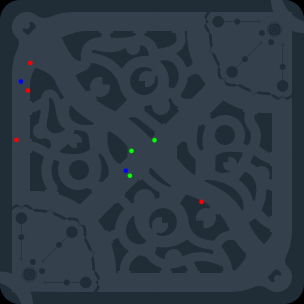
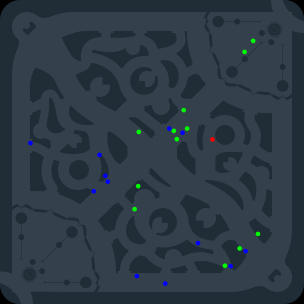
atualiza namespaces

diff --git a/testeClass.php b/testeClass.php
@@ -3,17 +3,17 @@
 declare(strict_types = 1);
 ini_set("memory_limit", "-1");
 
-use Riot\Api\api\RiotApiClient;
-use Riot\Api\map\Analyzers\SlaughterParticipation;
-use Riot\Api\map\MapsType\ClassicMap;
-use Riot\Api\map\PlotsType\PlotKillAssistDeath;
+use Riot\Api\RiotApiClient;
+use Riot\Map\Analyzers\SlaughterParticipation;
+use Riot\Map\MapsType\ClassicMap;
+use Riot\Map\PlotsType\PlotKillAssistDeath;
 use Symfony\Component\Dotenv\Dotenv;
 
 require_once __DIR__ . "/vendor/autoload.php";
 
 (new Dotenv())->loadEnv(__DIR__ . "/.env");
 
-$match = 8;
+$match = 11;
 
 $maps = [
     "ONEFORALL" => "Classic",
@@ -35,7 +35,7 @@ foreach($matchInfo->metadata->participants as $key => $participant) {
 $participant = $matchInfo->info->participants[$participantKey];
 
 $mapType = $maps[$matchInfo->info->gameMode];
-$mapClass = new ReflectionClass("Riot\Api\map\MapsType\\{$mapType}Map");
+$mapClass = new ReflectionClass("Riot\Map\MapsType\\{$mapType}Map");
 
 $matchInfoTimeline = $riotApiClient->getMatchInfoTimeline($matchesId[$match]);
 

diff --git a/src/Image.php b/src/Image.php
@@ -1,8 +1,8 @@
 <?php
 
-namespace Riot\Api;
+namespace Riot;
 
-use Riot\Api\map\Plots\Plot;
+use Riot\Map\Plots\Plot;
 
 class Image
 {
@@ -14,7 +14,7 @@ class Image
     {
         $map = imagecreatefrompng(__DIR__ . "/../MapsImage/{$map}");
 
-        // Loop through each plot and put the corresponding number on the map
+        // Loop through each plot and put the corresponding number on the Map
         foreach ($plots as $plot) {
             $color = imagecolorallocate($map, ...$plot->getRgb());
             $x = $plot->getX() - 400;
@@ -23,7 +23,7 @@ class Image
             imagettftext($map, 3500/*5000*/, 0, $x, $y, $color, __DIR__ . "/../Montserrat-VariableFont_wght.ttf", $number);
         }
 
-        // Output the modified map with numbers
+        // Output the modified Map with numbers
         imagepng($map, __DIR__ . "/../MapsImage/plotedKillAssistMap.png");
 
         // Free up memory

diff --git a/src/Map/PlotsType/PlotKillDeath.php b/src/Map/PlotsType/PlotKillDeath.php
@@ -1,12 +1,12 @@
 <?php
 
-namespace Riot\Api\map\PlotsType;
+namespace Riot\Map\PlotsType;
 
-use Riot\Api\Image;
-use Riot\Api\map\Analyzers\Analyzer;
-use Riot\Api\map\MapsType\Map;
+use Riot\Image;
+use Riot\Map\Analyzers\Analyzer;
+use Riot\Map\MapsType\Map;
 
-class PlotAssistDeath implements PlotType
+class PlotKillDeath implements PlotType
 {
     #[\Override]
     public function plot(Analyzer $analyzer, Map $map): Image
@@ -14,7 +14,7 @@ class PlotAssistDeath implements PlotType
         return (new Image())
             ->plotPositions(
                 array_merge(
-                    $analyzer->getAssistPositions(),
+                    $analyzer->getKillPositions(),
                     $analyzer->getDeathPositions()
                 ),
                 $map->getMapImage()

diff --git a/src/Map/PlotsType/PlotKillAssistDeath.php b/src/Map/PlotsType/PlotKillAssistDeath.php
@@ -1,13 +1,14 @@
 <?php
 
-namespace Riot\Api\map\PlotsType;
+namespace Riot\Map\PlotsType;
 
-use Riot\Api\Image;
-use Riot\Api\map\Analyzers\Analyzer;
-use Riot\Api\map\MapsType\Map;
+use Riot\Image;
+use Riot\Map\Analyzers\Analyzer;
+use Riot\Map\MapsType\Map;
 
-class PlotKillDeath implements PlotType
+class PlotKillAssistDeath implements PlotType
 {
+
     #[\Override]
     public function plot(Analyzer $analyzer, Map $map): Image
     {
@@ -15,6 +16,7 @@ class PlotKillDeath implements PlotType
             ->plotPositions(
                 array_merge(
                     $analyzer->getKillPositions(),
+                    $analyzer->getAssistPositions(),
                     $analyzer->getDeathPositions()
                 ),
                 $map->getMapImage()

diff --git a/src/Map/PlotsType/PlotAssistDeath.php b/src/Map/PlotsType/PlotAssistDeath.php
@@ -1,21 +1,19 @@
 <?php
 
-namespace Riot\Api\map\PlotsType;
+namespace Riot\Map\PlotsType;
 
-use Riot\Api\Image;
-use Riot\Api\map\Analyzers\Analyzer;
-use Riot\Api\map\MapsType\Map;
+use Riot\Image;
+use Riot\Map\Analyzers\Analyzer;
+use Riot\Map\MapsType\Map;
 
-class PlotKillAssistDeath implements PlotType
+class PlotAssistDeath implements PlotType
 {
-
     #[\Override]
     public function plot(Analyzer $analyzer, Map $map): Image
     {
         return (new Image())
             ->plotPositions(
                 array_merge(
-                    $analyzer->getKillPositions(),
                     $analyzer->getAssistPositions(),
                     $analyzer->getDeathPositions()
                 ),

diff --git a/resize.php b/resize.php
@@ -5,7 +5,7 @@ ini_set("memory_limit", "-1");
 $image = imagecreatetruecolor(16000, 16000);
 
 // Load the background image
-$backgroundImage = imagecreatefrompng('img-lol-map.png'); // Provide path to your background image
+$backgroundImage = imagecreatefrompng('img-lol-Map.png'); // Provide path to your background image
 
 // Get the dimensions of the background image
 $bgWidth = imagesx($backgroundImage);

diff --git a/src/Map/Analyzers/SlaughterParticipation.php b/src/Map/Analyzers/SlaughterParticipation.php
@@ -1,10 +1,10 @@
 <?php
 
-namespace Riot\Api\map\Analyzers;
+namespace Riot\Map\Analyzers;
 
-use Riot\Api\map\Plots\AssistPlot;
-use Riot\Api\map\Plots\DeathPlot;
-use Riot\Api\map\Plots\KillPlot;
+use Riot\Map\Plots\AssistPlot;
+use Riot\Map\Plots\DeathPlot;
+use Riot\Map\Plots\KillPlot;
 
 class SlaughterParticipation implements Analyzer
 {

diff --git a/src/Map/PlotsType/PlotKillAssist.php b/src/Map/PlotsType/PlotKillAssist.php
@@ -1,10 +1,10 @@
 <?php
 
-namespace Riot\Api\map\PlotsType;
+namespace Riot\Map\PlotsType;
 
-use Riot\Api\Image;
-use Riot\Api\map\Analyzers\Analyzer;
-use Riot\Api\map\MapsType\Map;
+use Riot\Image;
+use Riot\Map\Analyzers\Analyzer;
+use Riot\Map\MapsType\Map;
 
 class PlotKillAssist implements PlotType
 {

diff --git a/src/Map/PlotsType/PlotAssist.php b/src/Map/PlotsType/PlotAssist.php
@@ -1,10 +1,10 @@
 <?php
 
-namespace Riot\Api\map\PlotsType;
+namespace Riot\Map\PlotsType;
 
-use Riot\Api\Image;
-use Riot\Api\map\Analyzers\Analyzer;
-use Riot\Api\map\MapsType\Map;
+use Riot\Image;
+use Riot\Map\Analyzers\Analyzer;
+use Riot\Map\MapsType\Map;
 
 class PlotAssist implements PlotType
 {

diff --git a/src/Map/PlotsType/PlotDeath.php b/src/Map/PlotsType/PlotDeath.php
@@ -1,10 +1,10 @@
 <?php
 
-namespace Riot\Api\map\PlotsType;
+namespace Riot\Map\PlotsType;
 
-use Riot\Api\Image;
-use Riot\Api\map\Analyzers\Analyzer;
-use Riot\Api\map\MapsType\Map;
+use Riot\Image;
+use Riot\Map\Analyzers\Analyzer;
+use Riot\Map\MapsType\Map;
 
 class PlotDeath implements PlotType
 {

diff --git a/src/Map/PlotsType/PlotKill.php b/src/Map/PlotsType/PlotKill.php
@@ -1,10 +1,10 @@
 <?php
 
-namespace Riot\Api\map\PlotsType;
+namespace Riot\Map\PlotsType;
 
-use Riot\Api\Image;
-use Riot\Api\map\Analyzers\Analyzer;
-use Riot\Api\map\MapsType\Map;
+use Riot\Image;
+use Riot\Map\Analyzers\Analyzer;
+use Riot\Map\MapsType\Map;
 
 class PlotKill implements PlotType
 {

diff --git a/src/Map/MapsType/Map.php b/src/Map/MapsType/Map.php
@@ -1,9 +1,9 @@
 <?php
 
-namespace Riot\Api\map\MapsType;
+namespace Riot\Map\MapsType;
 
-use Riot\Api\map\Analyzers\Analyzer;
-use Riot\Api\map\PlotsType\PlotType;
+use Riot\Map\Analyzers\Analyzer;
+use Riot\Map\PlotsType\PlotType;
 
 abstract class Map
 {
